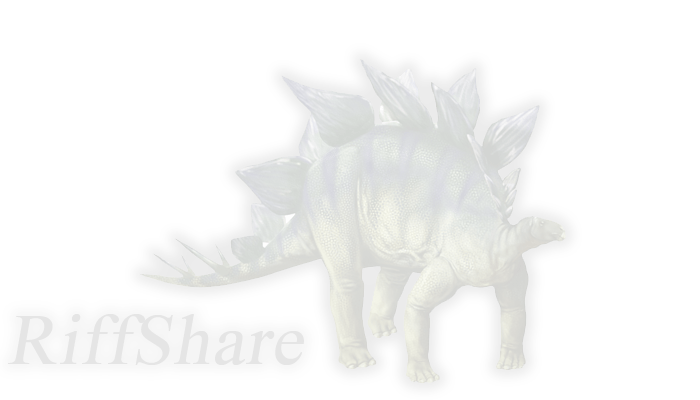
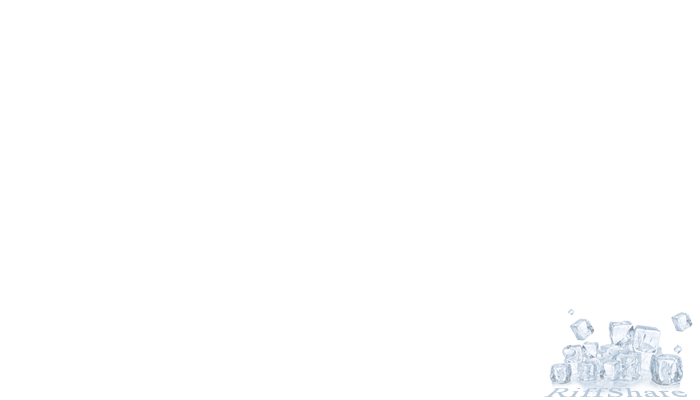
test

diff --git a/lib/index.js b/lib/index.js
@@ -89,7 +89,7 @@ FretChordSheet.prototype.init = function () {
 		me.tilePianorollOctaves(left, top, width, height, me.layerBack, lineWidth);
 		me.testButtons(left, top, width, height, me.layerBack, lineWidth);
 	});
-	this.tiler.addZoomLevel(25, function (left, top, width, height) {
+	this.tiler.addZoomLevel(50, function (left, top, width, height) {
 		//console.log('render', 15, me.tiler.translateZ);
 		var lineWidth = 0.3 * me.tiler.tapSize;
 		me.tileStaff(left, top, width, height, me.layerBack, lineWidth);

diff --git a/lib/index.css b/lib/index.css
@@ -9,10 +9,10 @@ html, body {
 }
 body{
 	background-image: url('img/bg.png');
-	background-color: #bcf;
+	background-color: #ddeeff;
 	background-repeat: no-repeat;
     background-attachment: fixed;
-    background-position: left bottom;
+    background-position: right bottom;
 }
 #contentSVG{
 	height: 100%;
